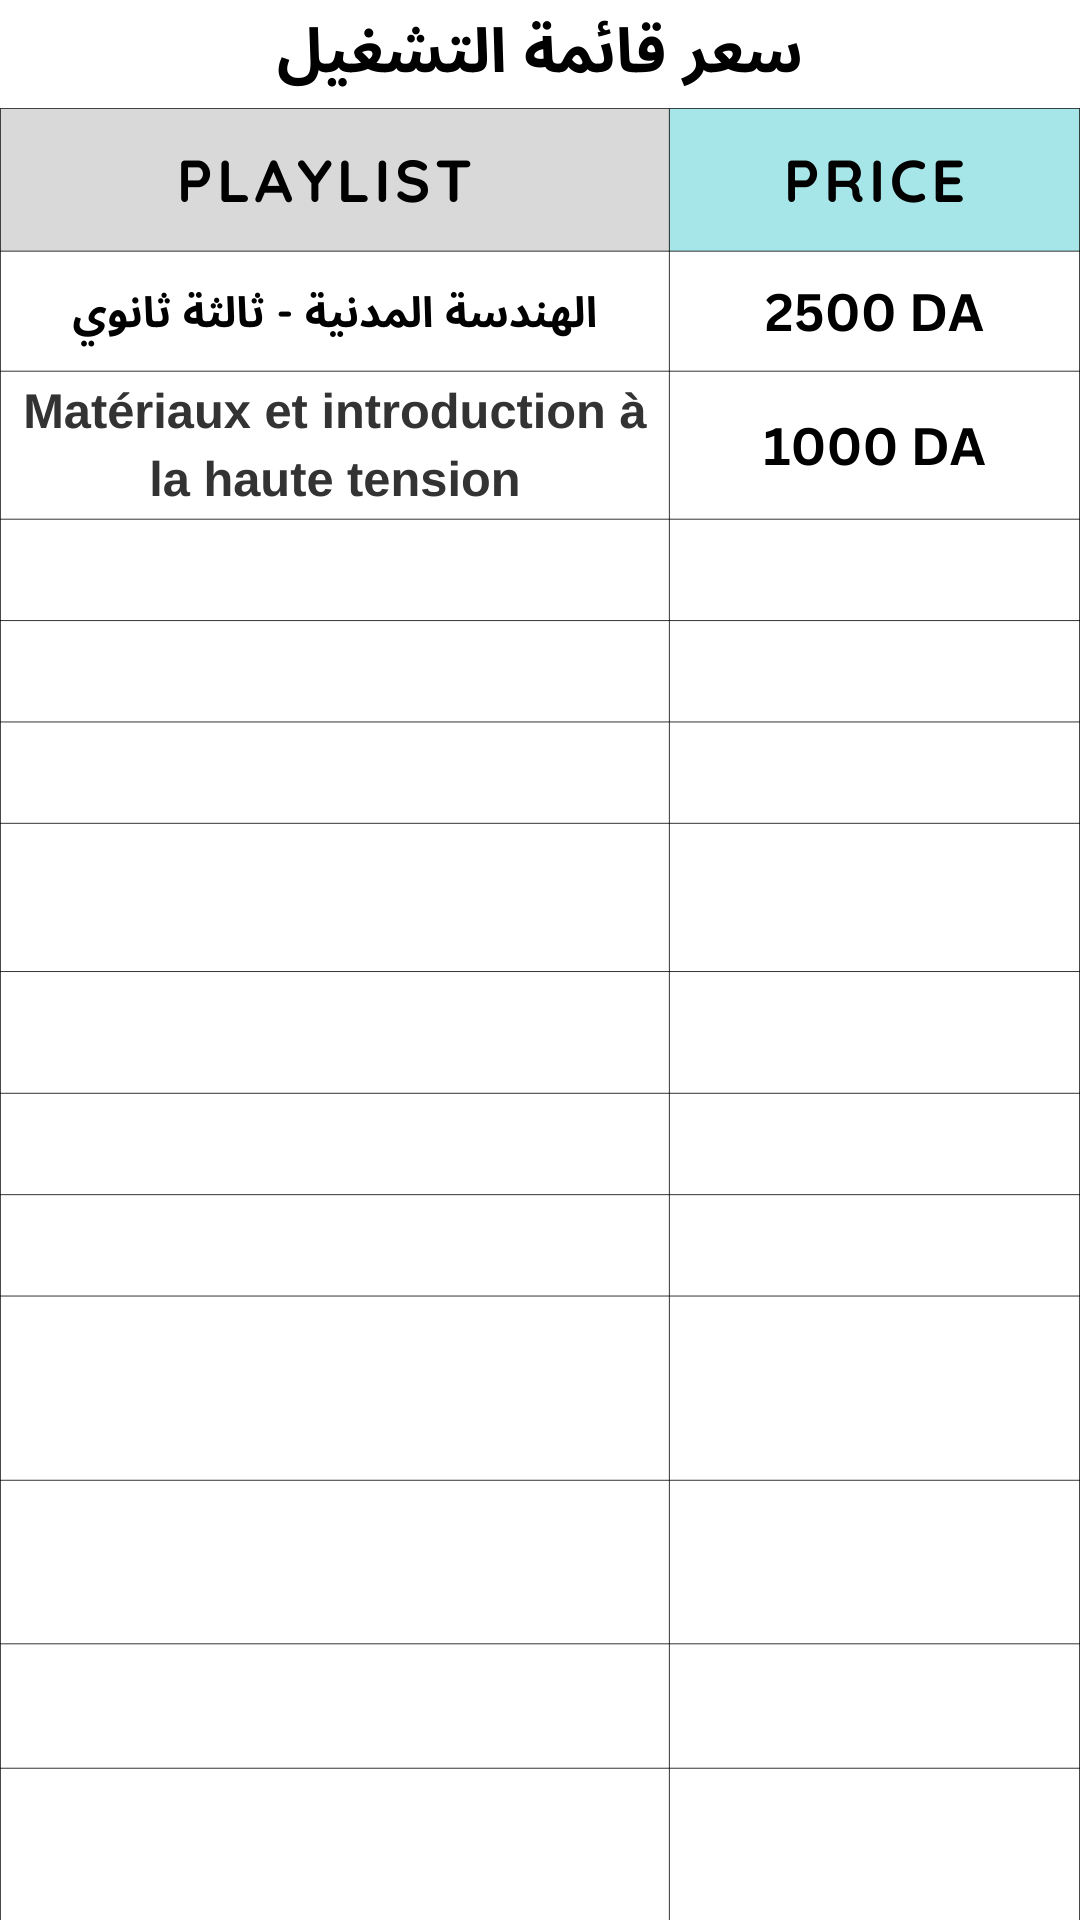
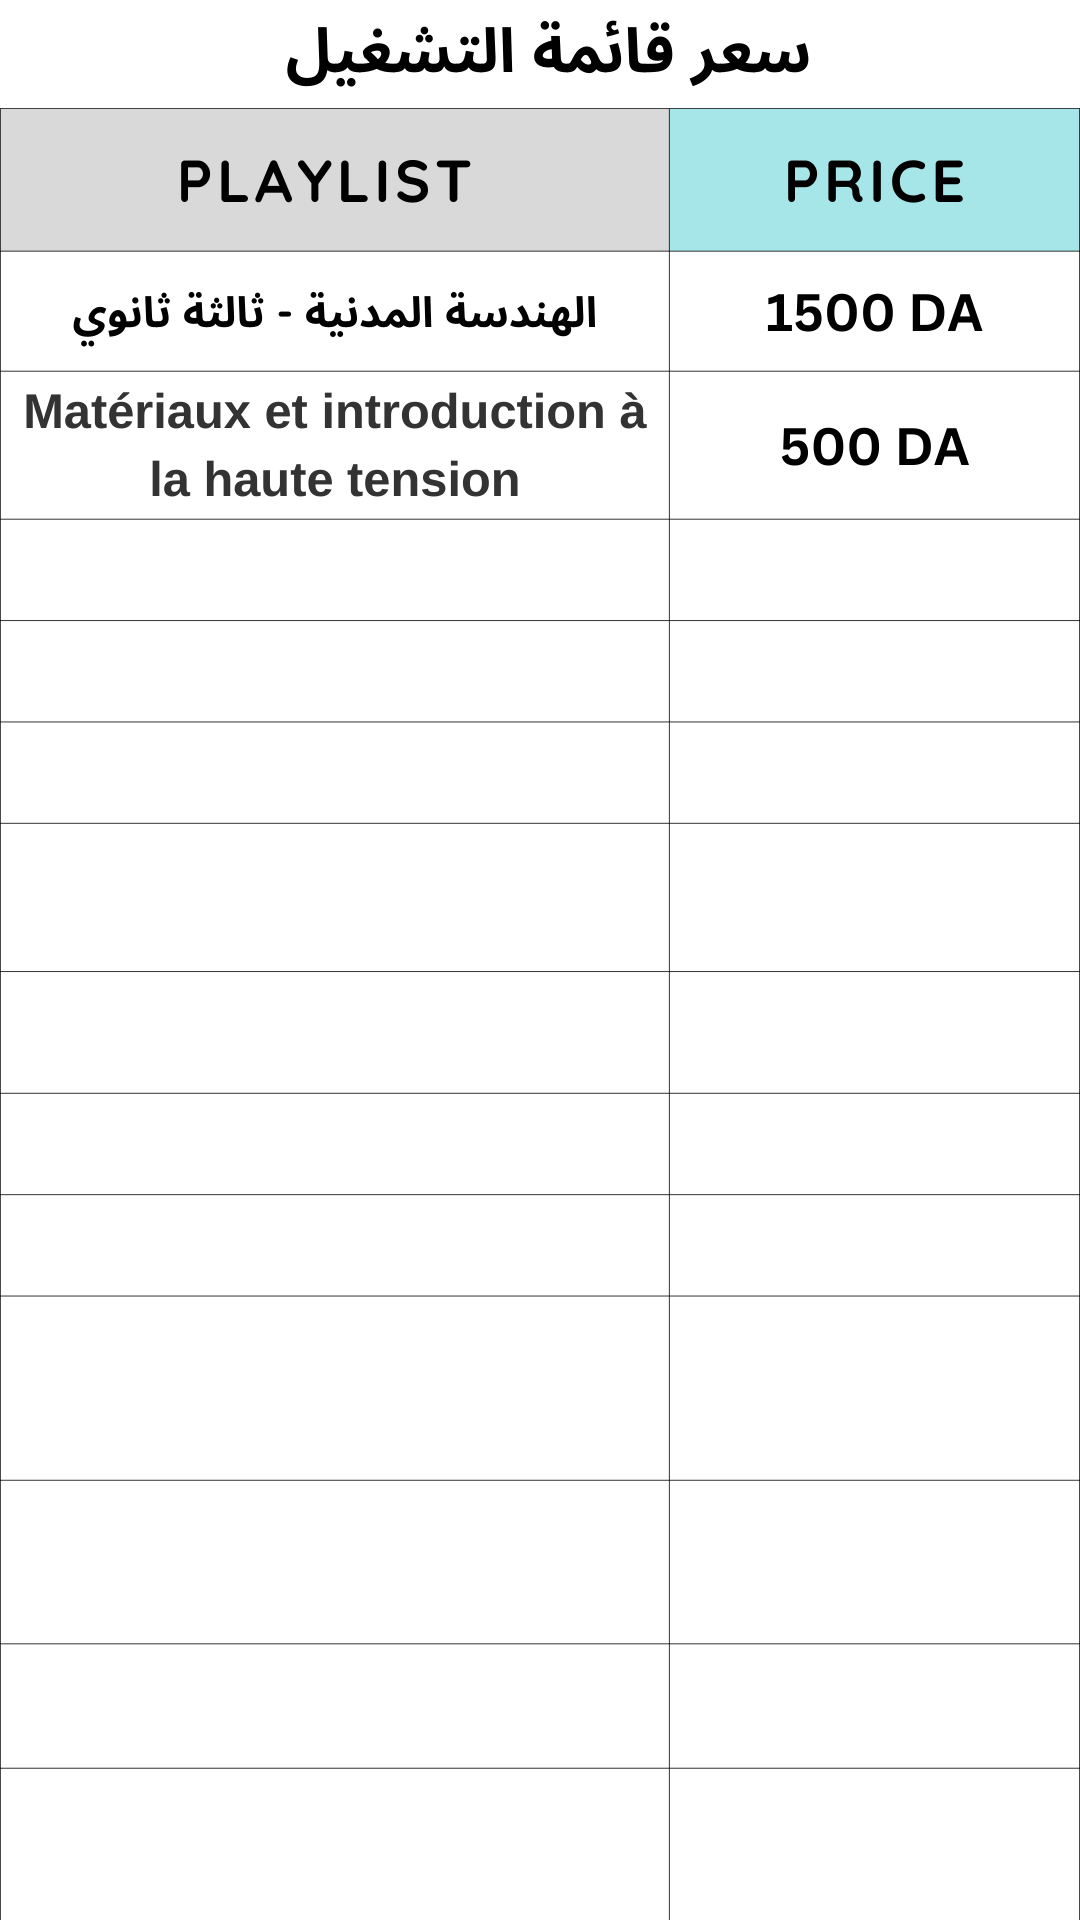
summary

diff --git a/gc.html b/gc.html
@@ -107,7 +107,7 @@
                     <a href="price/price.html" class="cta-btn" target="_blank">
                         اشترِ الآن – 
                         <span >
-                            2500 دج فقط
+                            1500 دج فقط
                         </span>
                     </a>
                 </div>
@@ -685,8 +685,8 @@
         <div class="sheets-container">
             <!-- Sheet 1 -->
             <div class="sheet">
-                <a href="pdf2500.pdf" target="_blank">
-                    <img src="rec2500.png" alt="Registration Process Step 1" />
+                <a href="pdf1500.pdf" target="_blank">
+                    <img src="rec1500.png" alt="Registration Process Step 1" />
                 </a>
             </div>
         </div>

diff --git a/materiaux_haute_tension.html b/materiaux_haute_tension.html
@@ -108,7 +108,7 @@
                     <a href="price/price.html" class="cta-btn" target="_blank">
                         اشترِ الآن – 
                         <span >
-                            1000 دج فقط
+                            500 دج فقط
                         </span>
                     </a>
                 </div>
@@ -218,8 +218,8 @@
         <div class="sheets-container">
             <!-- Sheet 1 -->
             <div class="sheet">
-                <a href="pdf1000.pdf" target="_blank">
-                    <img src="rec1000.png" alt="Registration Process Step 1" />
+                <a href="pdf500.pdf" target="_blank">
+                    <img src="rec500.png" alt="Registration Process Step 1" />
                 </a>
             </div>
         </div>

diff --git a/index.html b/index.html
@@ -288,7 +288,7 @@
       <a href="price/price.html" target="_blank">
             اشترِ الآن – 
             <span >
-                2500 دج فقط
+                1500 دج فقط
             </span>
             
     </button>  </div>
@@ -514,7 +514,7 @@
       <a href="price/price.html" target="_blank">
             اشترِ الآن – 
             <span >
-                1000 دج فقط
+                500 دج فقط
             </span>
             
     </button>  </div>
